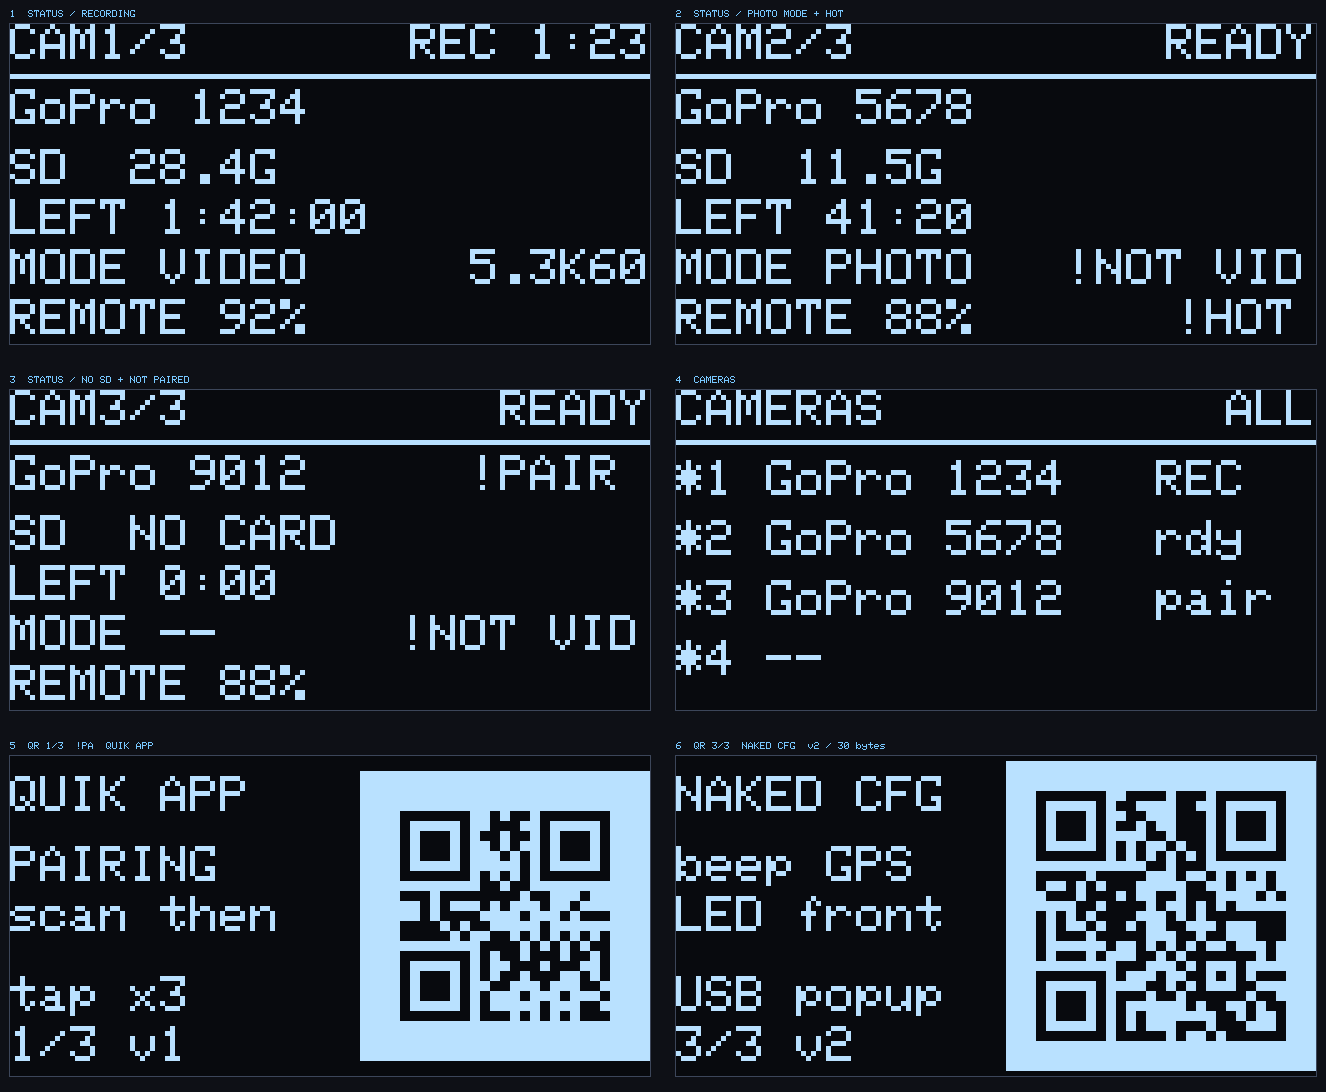
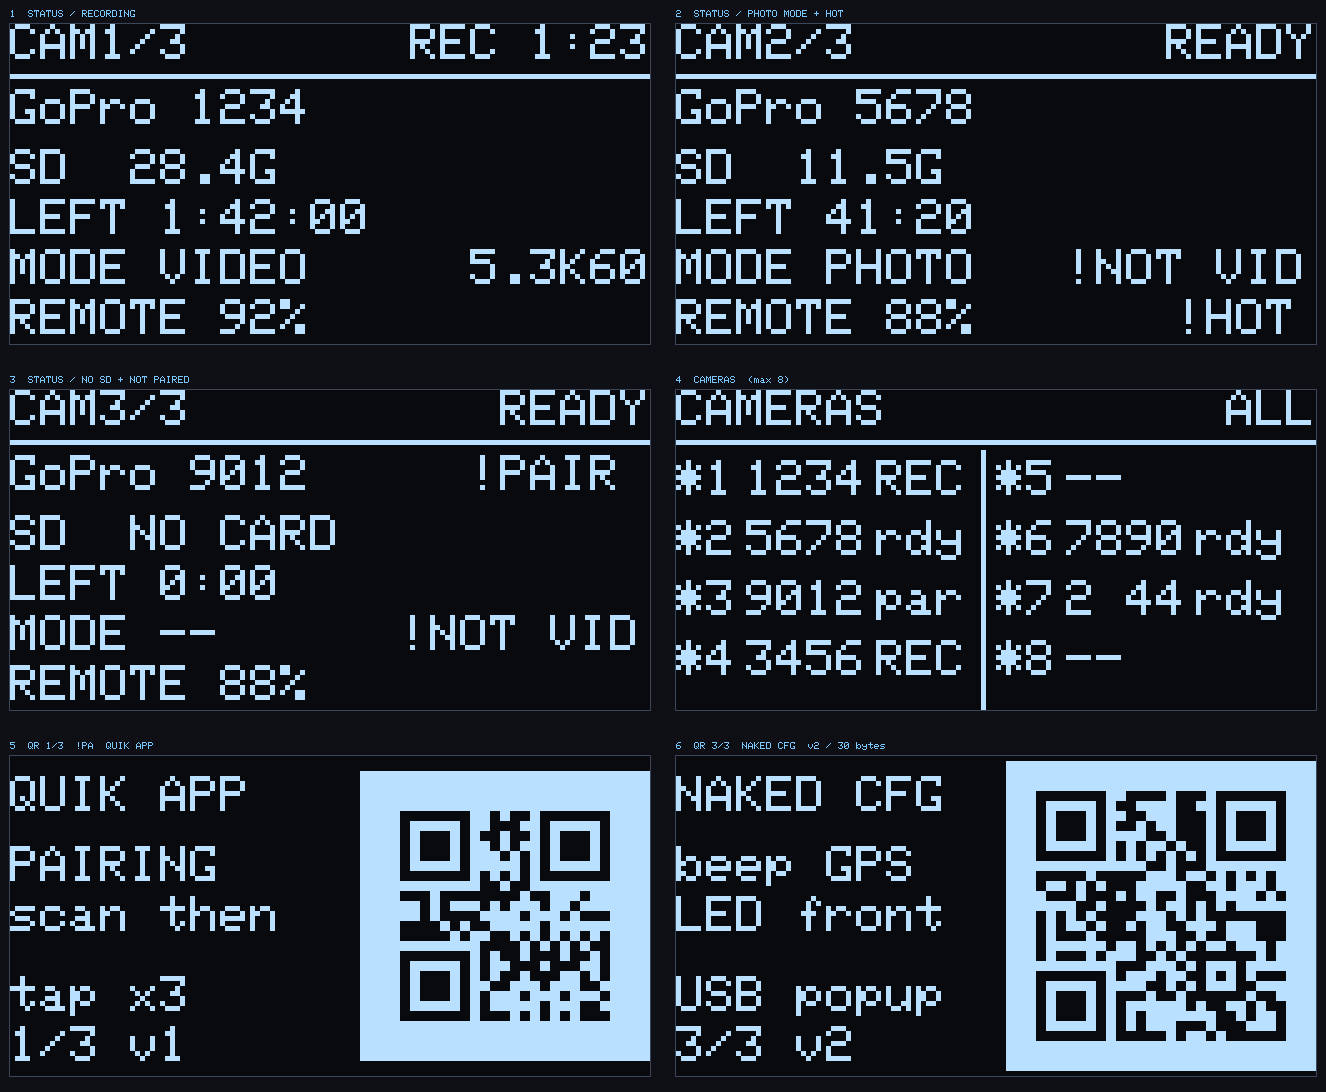
feat: 同時接続を8台に
MAX_CAMS 4 → 8。SoftDevice の上限は 20 なので、決めているのは画面のほう。
CAMERAS 一覧は 12px ピッチ x 4行で 64px を使い切っているので、行は詰められない。
5台以上は列を増やす: 2列 x 4行、名前は末尾4文字（GoPro は末尾4桁で見分ける）、
列の境に縦線を入れる（無いと左列の状態と右列の印が "REC*5" に繋がって読めない）。

・index.html: メタ / CAMERAS のモック / MULTI CAMERA の本文 / 仕様表
・images/oled_screens.png: 8台の一覧で描き直し
・README.md: 同時接続 最大8台

Changed region(s): [[0.5566, 0.4048, 0.9585, 0.6227]]

diff --git a/index.html b/index.html
@@ -5,7 +5,7 @@
 <meta name="viewport" content="width=device-width,initial-scale=1">
 <meta name="theme-color" content="#06090c">
 <title>Naked GoPro Remote | 録れているか、見えない。</title>
-<meta name="description" content="画面のない剥きプロに BLE で繋ぎ、SD・動画モード・録画残量を手元に出す。最大4台。CINEWHOOP TOKYO">
+<meta name="description" content="画面のない剥きプロに BLE で繋ぎ、SD・動画モード・録画残量を手元に出す。最大8台。CINEWHOOP TOKYO">
 <style>
 :root{
   --bg:#06090c; --surface:#0e1319; --surface2:#141b22; --line:#232c35; --line2:#2e3944;
@@ -211,11 +211,12 @@ REMOTE 88%</div>
       <div>
         <div class="oled">CAMERAS            ALL
 ────────────────────────
-*1 GoPro 1234      REC
-*2 GoPro 5678      rdy
-*3 GoPro 9012     pair
-*4 --</div>
-        <div class="caveat">最大4台。1台ずつでも、全台まとめてでも</div>
+*1 1234 REC │*5 --
+*2 5678 rdy │*6 7890 rdy
+*3 9012 par │*7 3456 rdy
+*4 --       │*8 --</div>
+        <div class="caveat">最大8台。2列 × 4行で全台が一画面に載る。名前は末尾4桁（GoPro はここで見分ける）。
+          1台ずつでも、全台まとめてでも</div>
       </div>
     </div>
   </div>
@@ -228,7 +229,7 @@ REMOTE 88%</div>
     <div class="label">MULTI CAMERA</div>
     <h2>複数台を、ひとつで。</h2>
     <p class="say">剥きプロを何台も運用していると、どれが録れているか分からなくなる。
-      <b>最大4台に同時接続し、一覧で状態を見て、選んで、あるいは全台まとめて回す。</b></p>
+      <b>最大8台に同時接続し、一覧で状態を見て、選んで、あるいは全台まとめて回す。</b></p>
     <div class="branch">
       <div class="br ok"><div class="k">左右</div><div class="sub">カメラを選ぶ（ALL → 1 → 2 …）</div></div>
       <div class="br ok"><div class="k">上下</div><div class="sub">画面を切り替える</div></div>
@@ -284,7 +285,7 @@ REMOTE 88%</div>
       <tr><td>電源</td><td><b>LIR2032 のみ</b>（充電式リチウムイオン）。USB-C で充電。<b>CR2032 は不可</b></td></tr>
       <tr><td>基板</td><td>30.1 × 62.1mm / 2層 / 1oz / 黒レジスト・白シルク・ENIG</td></tr>
       <tr><td>対応</td><td>GoPro HERO9 以降（Open GoPro BLE API）</td></tr>
-      <tr><td>同時接続</td><td>最大 4台</td></tr>
+      <tr><td>同時接続</td><td>最大 8台（一覧は 2列 × 4行）</td></tr>
     </table>
   </div>
 </section>

diff --git a/README.md b/README.md
@@ -20,7 +20,7 @@
 |---|---|
 | 表示 | SD の有無と残量 / あと何秒録れるか / 動画モードか / 解像度・FPS / 過熱 / ペアリング状態 |
 | 操作 | **REC 専用ボタン**（APEM MJTP1250）＋ 5方向スイッチ（カメラ選択・画面切替） |
-| 同時接続 | **最大 4台**。1台ずつでも、全台まとめてでも |
+| 同時接続 | **最大 8台**。1台ずつでも、全台まとめてでも（一覧は 2列 × 4行）|
 | ペアリング | GoPro Labs の QR を**画面に表示**。基板裏にもシルクで刷ってある |
 
 ## 仕様
